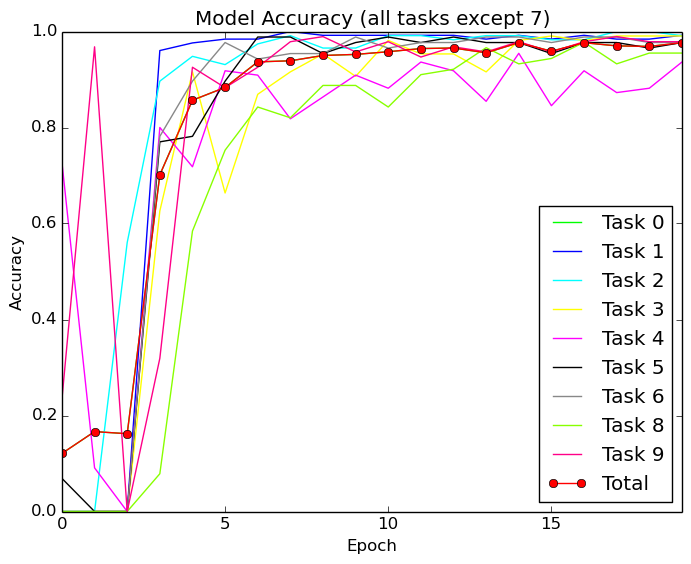
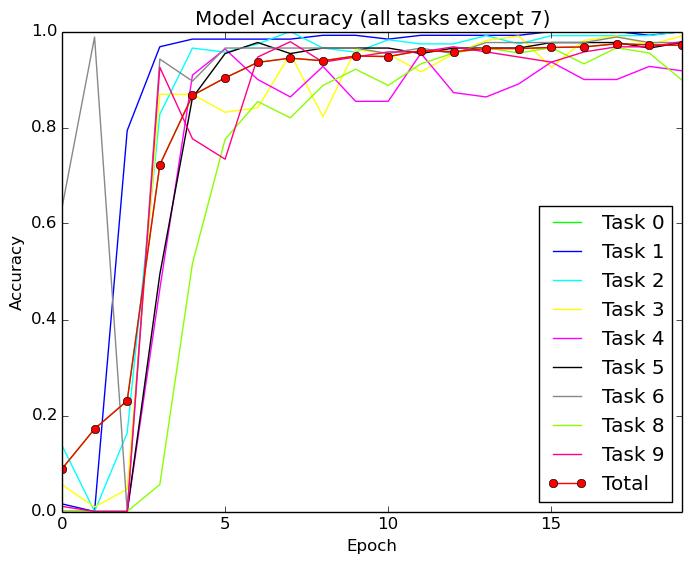
regenerated graphs from convnet demonstrating catastrophic interference

Changed region(s): [[0.0912, 0.0603, 1.0, 0.9344], [0.7902, 0.1507, 0.8205, 0.1809]]

diff --git a/conv_net/catastrophic/catastrophic-interference.py b/conv_net/catastrophic/catastrophic-interference.py
@@ -96,7 +96,7 @@ def generate_accuracy_graphs(num_tasks, exclude, save_figs, do_logreg_comparison
 
 	cnn.create_model_functions()
 
-	v = False
+	v = True
 	e = 20
 	b = 100
 	colors = ["#00FF00", "#0000FF", "#00FFFF", "#FFFF00", "#FF00FF", "#000000", "#888888", "#FF8800", "#88FF00", "#FF0088"]
@@ -158,4 +158,4 @@ def generate_accuracy_graphs(num_tasks, exclude, save_figs, do_logreg_comparison
 if __name__ == "__main__":
 	n_t = 10
 	for t in range(n_t):
-		generate_accuracy_graphs(num_tasks = n_t, exclude = t, save_figs = True, do_logreg_comparison = True)
+		generate_accuracy_graphs(num_tasks = n_t, exclude = t, save_figs = True, do_logreg_comparison = False)
